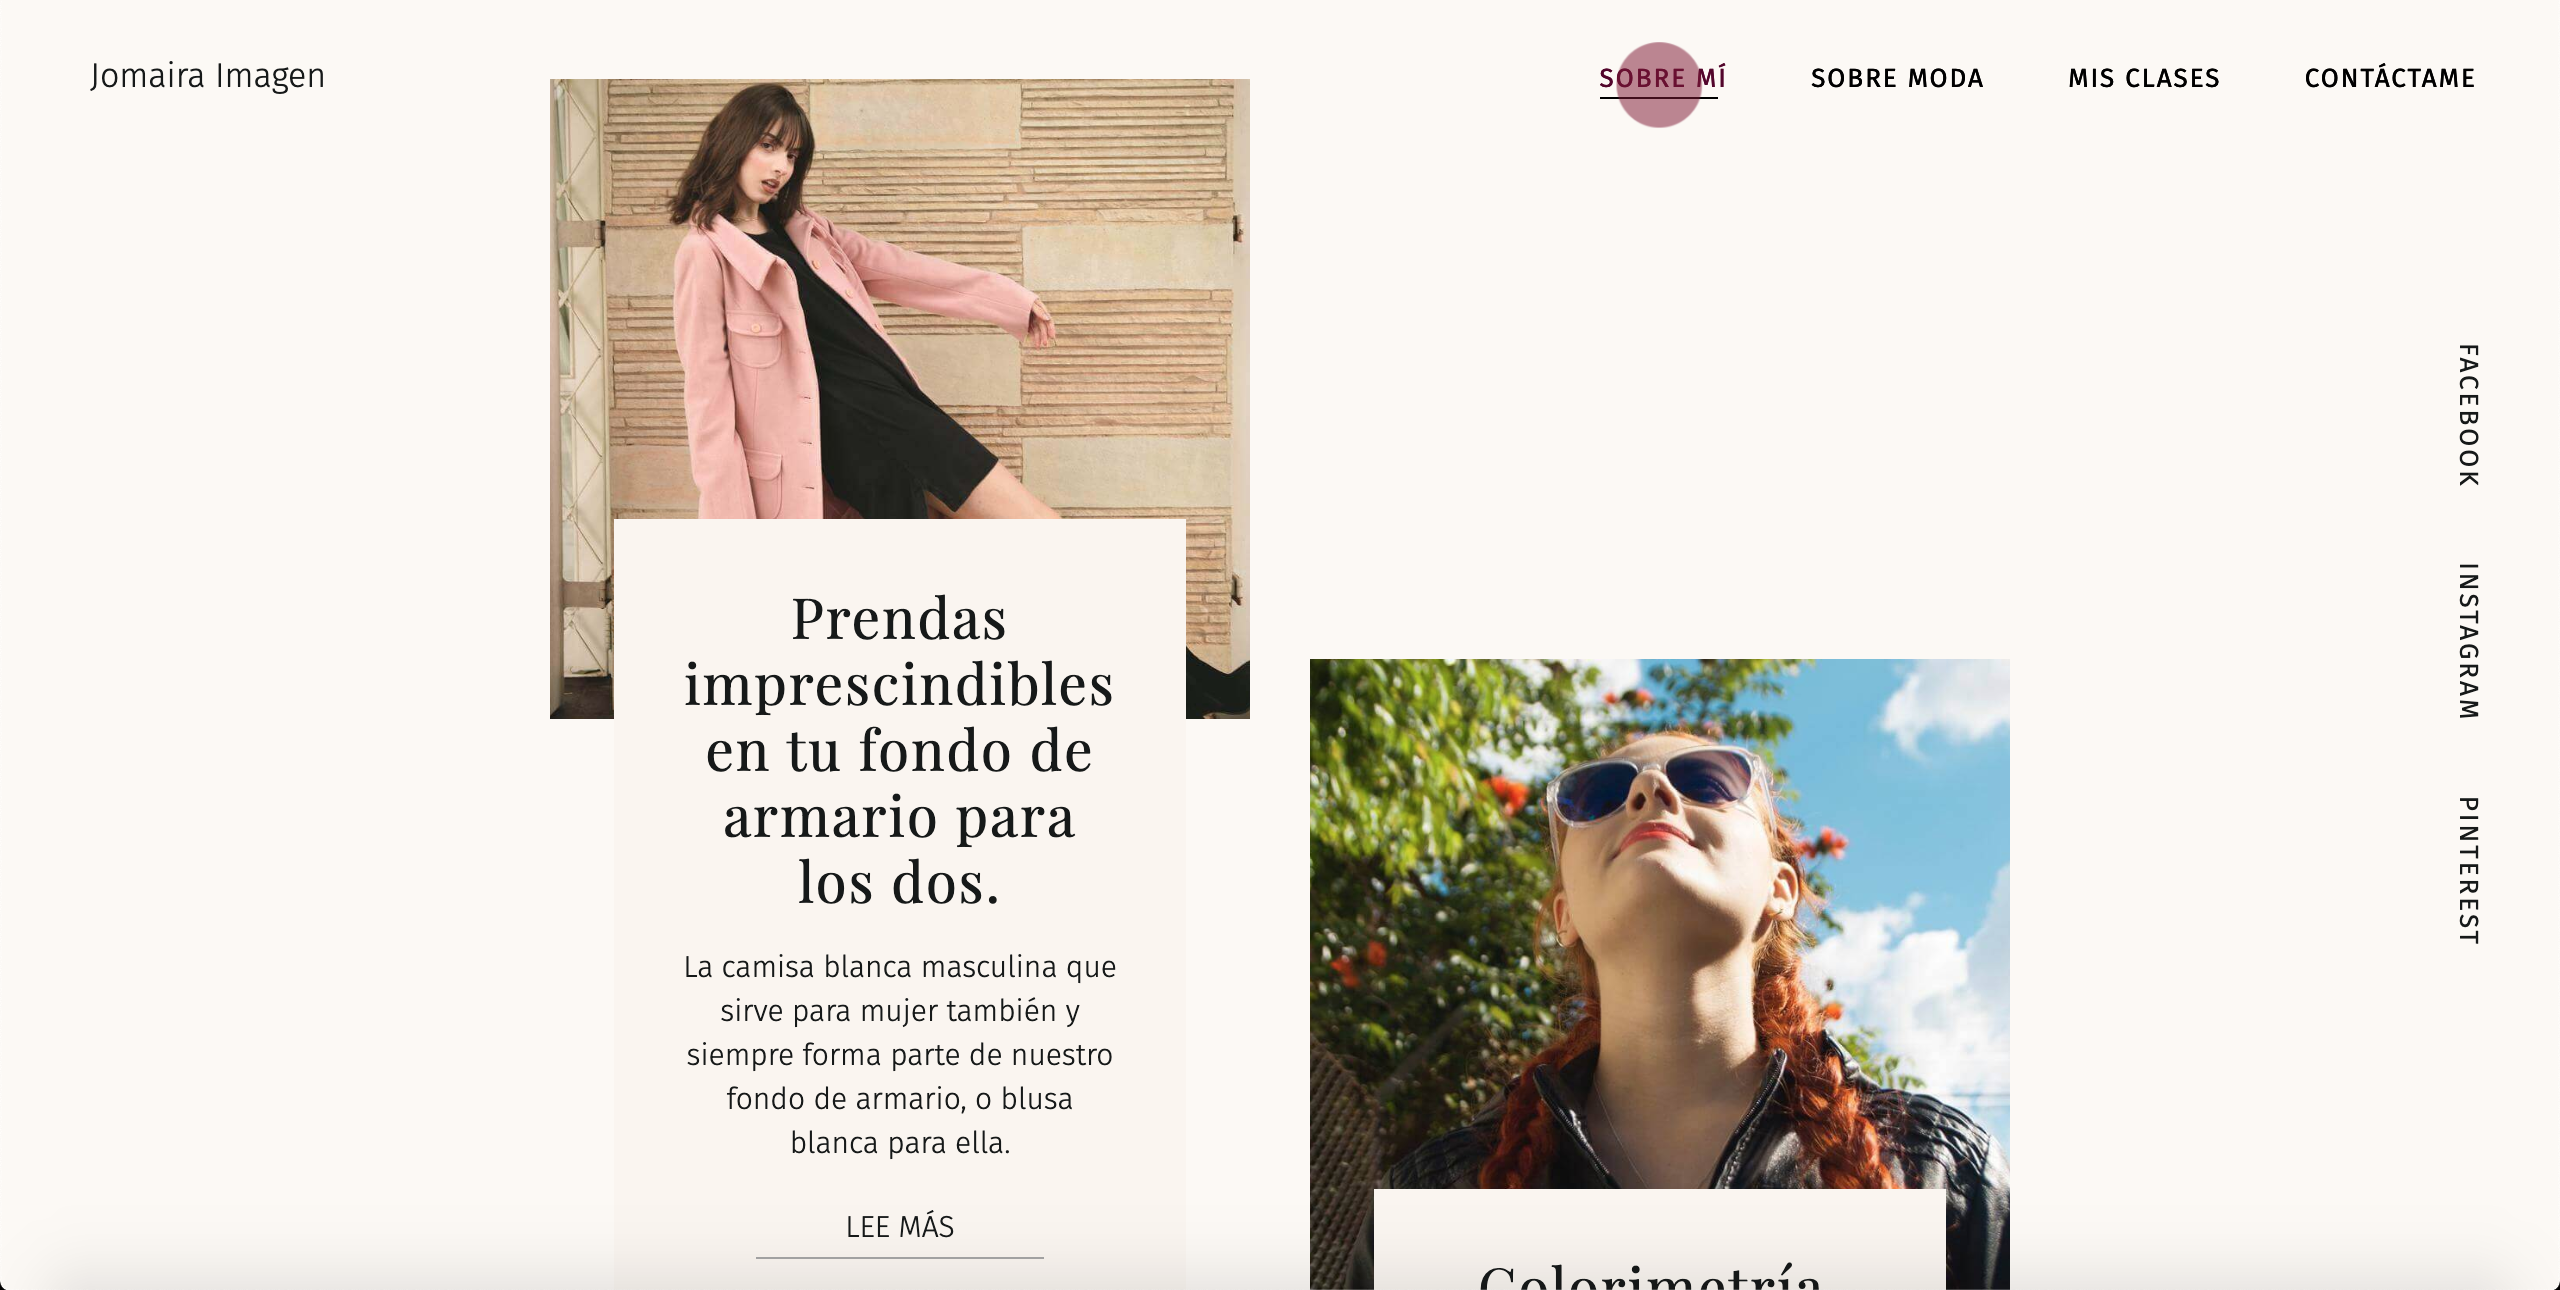
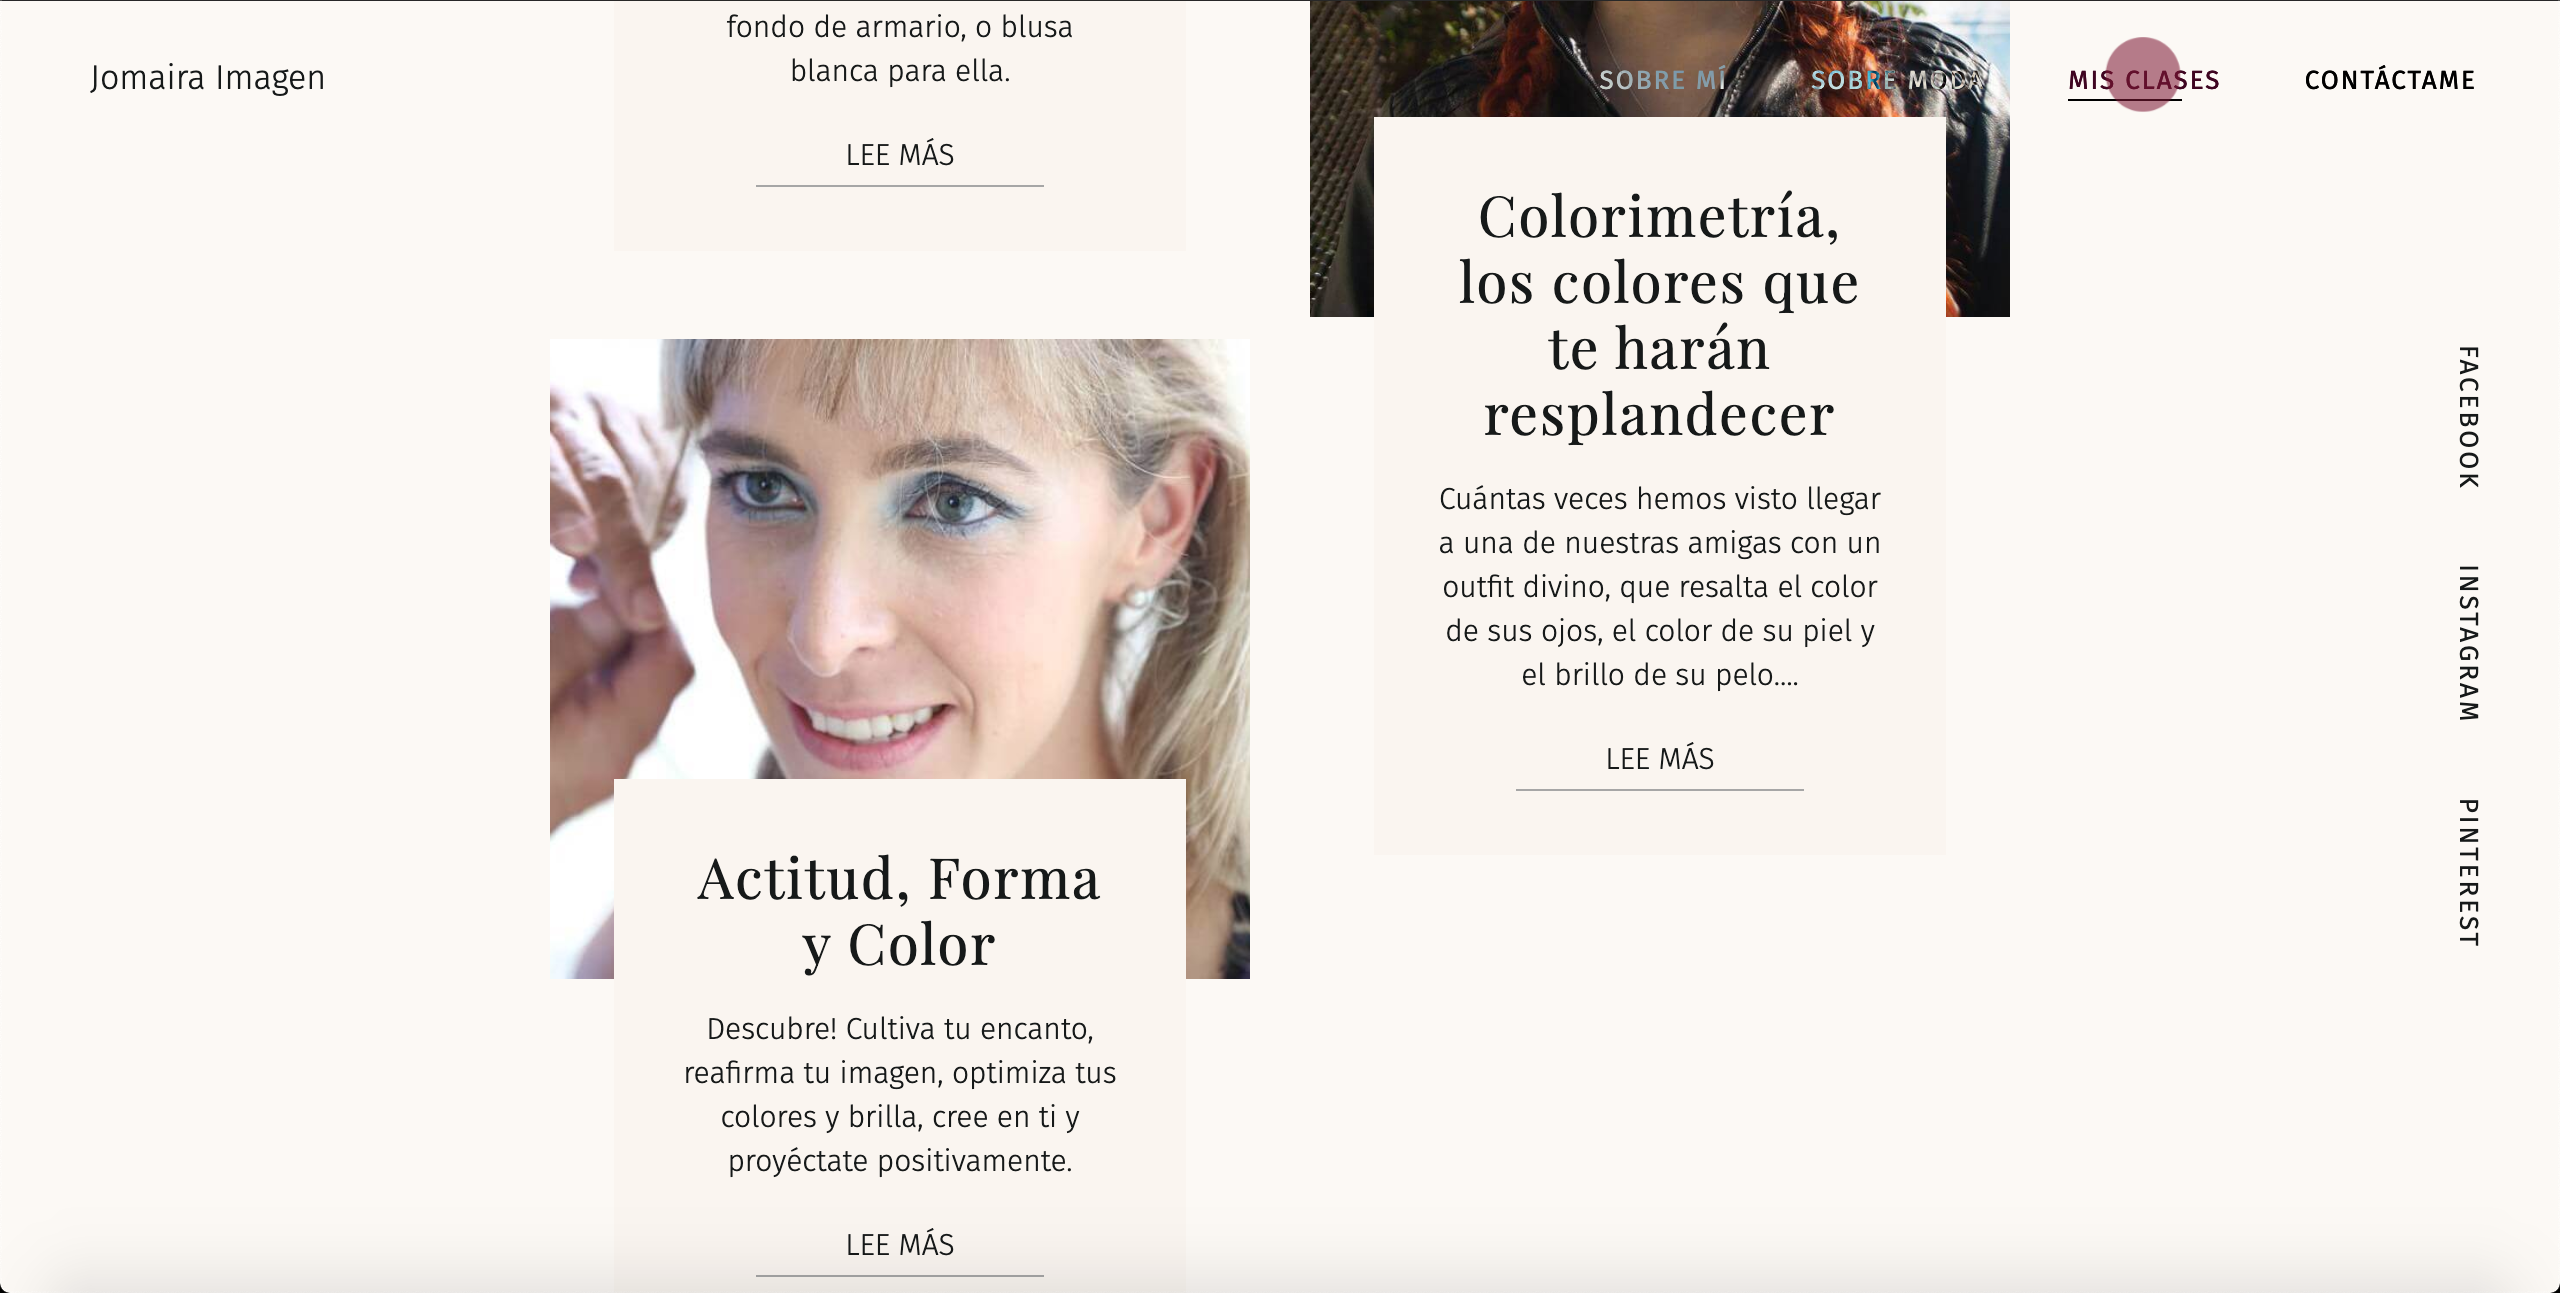
Changing project images.

diff --git a/_projects/jomaira_imagen.md b/_projects/jomaira_imagen.md
@@ -12,10 +12,12 @@ web:
   domain_pretty: https://jomaira-moda.netlify.com/ # www.jomairaimagen.com
   launch_url: https://www.jomairaimagen.com/
   images:
-    - /uploads/site-web-jomaira-imagen.png
+    - /uploads/site-web-jomaira-imagen-1.png
     - /uploads/site-web-jomaira-imagen-2.png
     - /uploads/site-web-jomaira-imagen-3.png
     - /uploads/site-web-jomaira-imagen-4.png
+    - /uploads/site-web-jomaira-imagen-5.png
+    - /uploads/site-web-jomaira-imagen-6.png
   image_fonts: ""
 type: Business Website & Blog
 category: Recent Independent Project

diff --git a/_projects/calle_impresores.md b/_projects/calle_impresores.md
@@ -12,7 +12,8 @@ web:
   domain_pretty: www.calleimpresores.com
   launch_url: https://calle-impresores.netlify.com
   images:
-    - /uploads/site-web-calle-impresores.png
+    - /uploads/site-web-calle-impresores-1.png
+    - /uploads/site-web-calle-impresores-2.png
   image_fonts: ""
 type: Business Website & Catalogue
 category: Recent Independent Project
